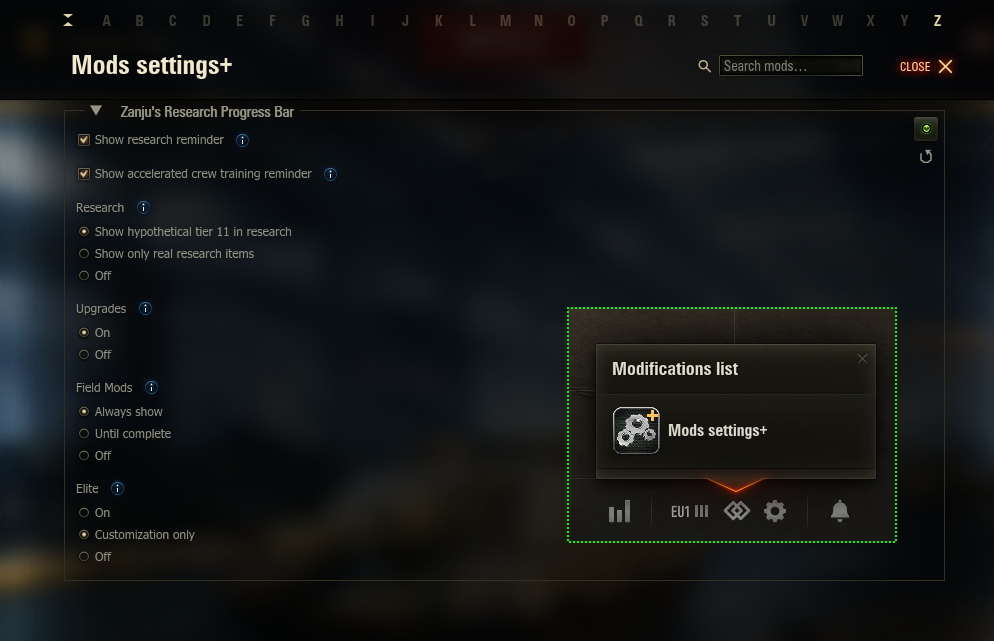
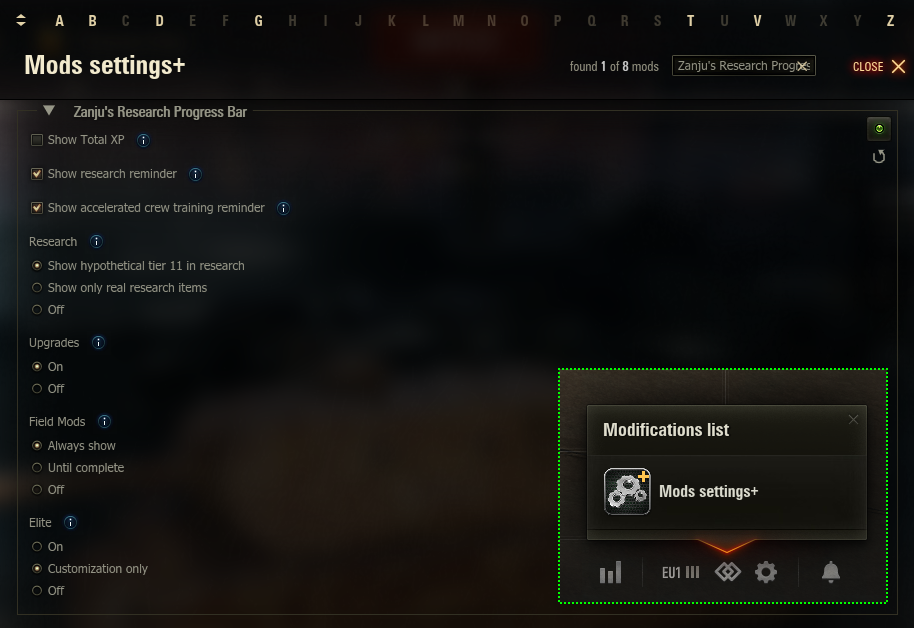
Changelog, version bump and updated images.

diff --git a/mods/research-progress-bar/CHANGELOG.md b/mods/research-progress-bar/CHANGELOG.md
@@ -1,16 +1,16 @@
 Changelog
 =========
 
-## Unreleased
+## 1.2.0 (4 July 2026)
 
-- New Russian translation. Thank you [@AVPromo](https://github.com/AVPromo)!
 - New "Show Total XP" setting (enabled by default). Turning it off hides the Total XP calculation everywhere: the Free XP (yellow) segment of the bar, the yellow highlight of markers reachable with Free XP, the Total XP counter next to the bar, and the Total XP row in tooltips — leaving only Vehicle XP progress.
+- Research tooltips for items that have prerequisites now show the combined cost of the item plus its prerequisites, and the Vehicle XP / Total XP progress is measured against that combined total — so a module that looks cheaper on its own no longer understates what it actually takes to unlock. [[#6](https://github.com/przemyslaw-zan/zanju-wot-mods/issues/6)]
+- New Russian translation. Thank you [@AVPromo](https://github.com/AVPromo)!
+- Fixed untranslated text in the tooltips: the field modifications and upgrades progress now shows "Vehicle XP" / "Total XP", along with the "Prerequisites" heading and completed-item text, in the client language instead of always in English. [[#8](https://github.com/przemyslaw-zan/zanju-wot-mods/issues/8)]
 - The Vehicle XP / Total XP rows in tooltips are now laid out as a real table with right-aligned columns. They were previously aligned by padding with spaces, which only lined up in the mod's monospace font — translations rendered in the fallback font (e.g. Russian) drifted apart as label lengths diverged.
 - Russian and other Cyrillic text now renders in the mod's own font, matching English and Polish, instead of the system fallback font.
-- Research tooltips for items that have prerequisites now show the combined cost of the item plus its prerequisites, and the Vehicle XP / Total XP progress is measured against that combined total — so a module that looks cheaper on its own no longer understates what it actually takes to unlock. [[#6](https://github.com/przemyslaw-zan/zanju-wot-mods/issues/6)]
-- Fixed untranslated text in the tooltips: the field modifications and upgrades progress now shows "Vehicle XP" / "Total XP", along with the "Prerequisites" heading and completed-item text, in the client language instead of always in English. [[#8](https://github.com/przemyslaw-zan/zanju-wot-mods/issues/8)]
 - Elite tooltips now show the reward name on its own line below the title, so the icon lines up with the title instead of floating between two lines.
-- Translations now ship inside the mod package itself, so installing leaves no loose language files in the modpack's `mods/configs` folder.
+- Translations now ship inside the mod package itself, so installing leaves no loose language files in the modpack's `mods/configs` folder. The `language` override in the config file is gone as part of this — the mod now always follows the game client's language.
 
 ## 1.1.0 (26 June 2026)
 
